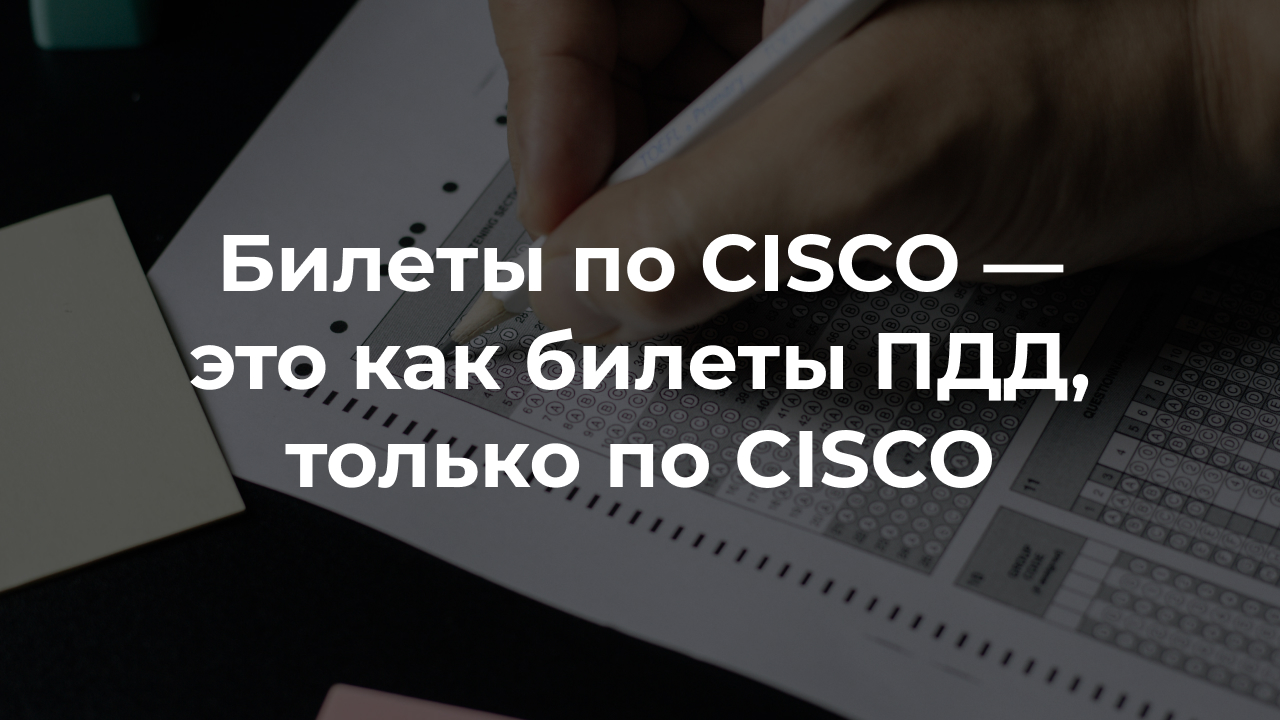
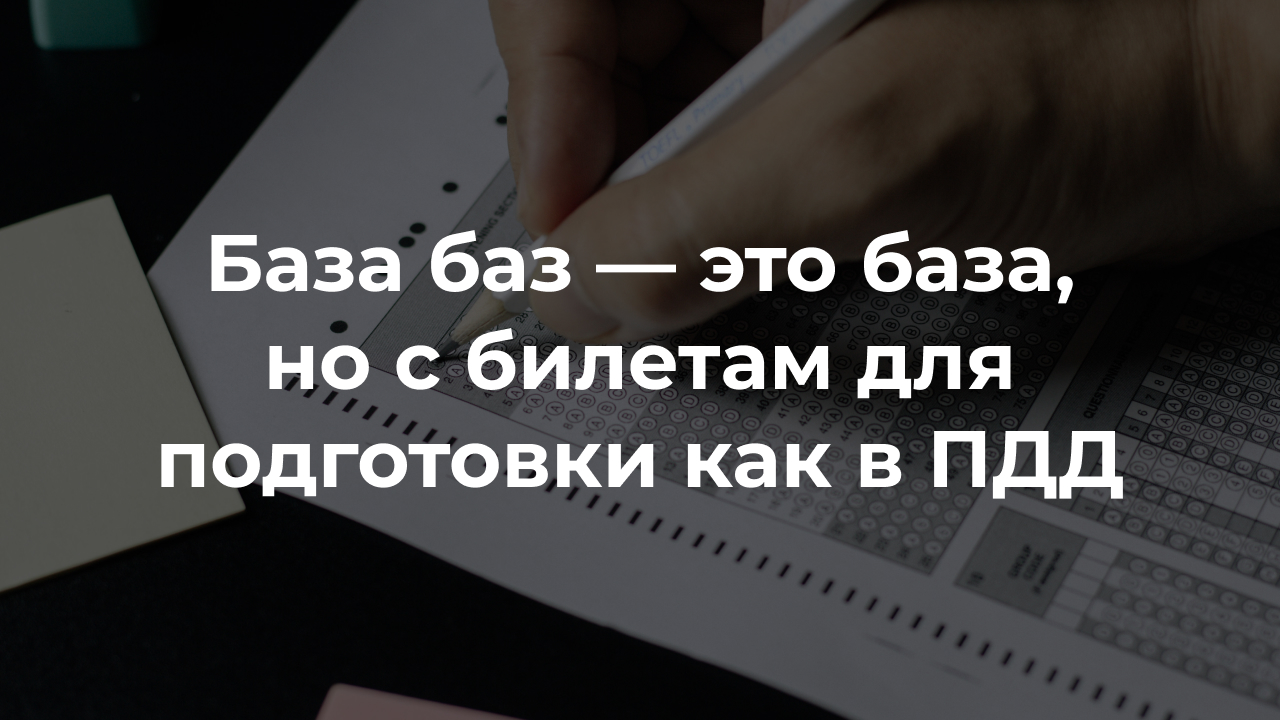
Обновляет мета-информацию

Changed region(s): [[0.125, 0.4583, 0.875, 0.7028], [0.1562, 0.3056, 0.8438, 0.4278]]

diff --git a/app/Http/Controllers/MarathonController.php b/app/Http/Controllers/MarathonController.php
@@ -11,17 +11,17 @@ use Illuminate\Http\Request;
 
 class MarathonController extends Controller
 {
-    public function index(Request $request)
-    {
-        $marathons = Marathon::query()
-            ->withCount(['tasks', 'success_tasks', 'error_tasks'])
-            ->where('token_uuid', $request->cookie('guest'))
-            ->get();
-
-//        dd($marathons->toArray());
-
-        return view('marathons.index', compact(['marathons']));
-    }
+//    public function index(Request $request)
+//    {
+//        $marathons = Marathon::query()
+//            ->withCount(['tasks', 'success_tasks', 'error_tasks'])
+//            ->where('token_uuid', $request->cookie('guest'))
+//            ->get();
+//
+////        dd($marathons->toArray());
+//
+//        return view('marathons.index', compact(['marathons']));
+//    }
 
     public function create(Request $request)
     {
@@ -37,46 +37,46 @@ class MarathonController extends Controller
         return view('marathons.create', compact(['tasks_count', 'token']));
     }
 
-    public function store(Request $request)
-    {
-        $marathon = Marathon::query()->create([
-            'token_uuid' => $request->cookie('guest'),
-        ]);
-
-        $tasks = Task::query()
-            ->whereNull('task_id')
-            ->get();
-
-        if ($request->boolean('shuffle')) {
-            $tasks = $tasks->shuffle();
-        }
-
-        foreach ($tasks as $task) {
-            $newTask = $task->replicate()->fill([
-                'marathon_id' => $marathon->id,
-                'task_id' => $task->id,
-            ]);
-
-            $newTask->save();
-
-            $options = Option::query()
-                ->where('task_id', $task->id)
-                ->get();
-
-            if ($request->boolean('shuffle')) {
-                $options = $options->shuffle();
-            }
-
-            foreach ($options as $option) {
-                $option->replicate()->fill([
-                    'is_chosen' => null,
-                    'task_id' => $newTask->id,
-                ])->save();
-            }
-        }
-
-        return to_route('marathons.show', $marathon->uuid);
-    }
+//    public function store(Request $request)
+//    {
+//        $marathon = Marathon::query()->create([
+//            'token_uuid' => $request->cookie('guest'),
+//        ]);
+//
+//        $tasks = Task::query()
+//            ->whereNull('task_id')
+//            ->get();
+//
+//        if ($request->boolean('shuffle')) {
+//            $tasks = $tasks->shuffle();
+//        }
+//
+//        foreach ($tasks as $task) {
+//            $newTask = $task->replicate()->fill([
+//                'marathon_id' => $marathon->id,
+//                'task_id' => $task->id,
+//            ]);
+//
+//            $newTask->save();
+//
+//            $options = Option::query()
+//                ->where('task_id', $task->id)
+//                ->get();
+//
+//            if ($request->boolean('shuffle')) {
+//                $options = $options->shuffle();
+//            }
+//
+//            foreach ($options as $option) {
+//                $option->replicate()->fill([
+//                    'is_chosen' => null,
+//                    'task_id' => $newTask->id,
+//                ])->save();
+//            }
+//        }
+//
+//        return to_route('marathons.show', $marathon->uuid);
+//    }
 
 //    public function show(Marathon $marathon)
 //    {

diff --git a/resources/views/index.blade.php b/resources/views/index.blade.php
@@ -3,14 +3,14 @@
 @section('title', 'База баз')
 
 @section('head')
-    <meta name="description" content="Это сайт, позволяющий выучить билеты, которые будут на экзамене по CISCO">
-    <meta property="og:title" content="Билеты по CISCO">
+    <meta name="description" content="Это сайт ― база баз, которая позволяет выучить билеты, которые будут на экзамене по тому или иному предмету">
+    <meta property="og:title" content="База баз">
     <meta property="og:type" content="website">
     <meta property="og:url" content="{{ config('app.url') }}">
     <meta property="og:image" content="{{ Vite::asset('resources/images/Promo.jpg') }}">
-    <meta property="og:description" content="Это сайт, позволяющий выучить билеты, которые будут на экзамене по CISCO">
+    <meta property="og:description" content="Это сайт ― база баз, которая позволяет выучить билеты, которые будут на экзамене по тому или иному предмету">
     <meta property="og:locale" content="ru_RU">
-    <meta property="og:site_name" content="Билеты по CISCO">
+    <meta property="og:site_name" content="База баз">
 @endsection
 
 @section('content')

diff --git a/routes/web.php b/routes/web.php
@@ -30,13 +30,13 @@ Route::middleware(EnsureHasGuestToken::class)->group(function () {
 Route::middleware(EnsureCourseIsChosen::class)->group(function () {
     Route::get('/', [IndexController::class, 'index'])->name('index');
 
-    Route::get('/marathons', [MarathonController::class, 'index'])->name('marathons.index');
+//    Route::get('/marathons', [MarathonController::class, 'index'])->name('marathons.index');
     Route::get('/marathons/create', [MarathonController::class, 'create'])->name('marathons.create');
-    Route::post('/marathons', [MarathonController::class, 'store'])->name('marathons.store');
+//    Route::post('/marathons', [MarathonController::class, 'store'])->name('marathons.store');
 //    Route::get('/marathons/{marathon:uuid}', [MarathonController::class, 'show'])->name('marathons.show');
     Route::get('/marathons/{test:uuid}', [MarathonController::class, 'show'])->name('marathons.show');
 
-    Route::post('/exams', [ExamController::class, 'store'])->name('exams.store');
+//    Route::post('/exams', [ExamController::class, 'store'])->name('exams.store');
     Route::get('/exams/{test:uuid}', [ExamController::class, 'show'])->name('exams.show');
 
     Route::get('/api/tests/{test:uuid}/exercises', [ExerciseController::class, 'index']);

diff --git a/resources/views/courses/create.blade.php b/resources/views/courses/create.blade.php
@@ -2,6 +2,17 @@
 
 @section('title', 'Выберите курс')
 
+@section('head')
+    <meta name="description" content="Это сайт ― база баз, которая позволяет выучить билеты, которые будут на экзамене по тому или иному предмету">
+    <meta property="og:title" content="База баз">
+    <meta property="og:type" content="website">
+    <meta property="og:url" content="{{ config('app.url') }}">
+    <meta property="og:image" content="{{ Vite::asset('resources/images/Promo.jpg') }}">
+    <meta property="og:description" content="Это сайт ― база баз, которая позволяет выучить билеты, которые будут на экзамене по тому или иному предмету">
+    <meta property="og:locale" content="ru_RU">
+    <meta property="og:site_name" content="База баз">
+@endsection
+
 @section('content')
     <div class="flex flex-col gap-4">
         <div class="flex justify-center">

diff --git a/app/Http/Controllers/BaseController.php b/app/Http/Controllers/BaseController.php
@@ -3,16 +3,20 @@
 namespace App\Http\Controllers;
 
 use App\Models\Task;
-use Illuminate\Database\Eloquent\Relations\HasMany;
+use App\Models\Token;
 use Illuminate\Http\Request;
 
 class BaseController extends Controller
 {
-    public function index()
+    public function index(Request $request)
     {
-        $tasks = Task::with(['options' => fn($query) => $query->where('is_answer', true)])
+        $token = Token::query()->firstWhere('uuid', $request->cookie('guest'));
+
+        $tasks = Task::with(['options' => function ($query) {
+            $query->select('id', 'name', 'task_id')->where('is_answer', true);
+        }])
             ->select(['id', 'name'])
-//            ->whereNull('task_id')
+            ->where('course_id', $token->course_id)
             ->get();
 
         return view('base.index', compact(['tasks']));

diff --git a/app/Models/Test.php b/app/Models/Test.php
@@ -4,6 +4,7 @@ namespace App\Models;
 
 use App\Enums\TestType;
 use App\Traits\HasUuids;
+use Illuminate\Database\Eloquent\Casts\Attribute;
 use Illuminate\Database\Eloquent\Model;
 use Illuminate\Database\Eloquent\Relations\HasMany;
 
@@ -35,5 +36,15 @@ class Test extends Model
     public function error_exercises(): HasMany
     {
         return $this->exercises()->where('is_success', false);
+    }
+
+    protected function testUrl(): Attribute
+    {
+        return new Attribute(
+            get: fn() => match ($this->type) {
+                TestType::Marathon => route('marathons.show', $this->uuid),
+                default => route('exams.show', $this->uuid),
+            },
+        );
     }
 }

diff --git a/resources/views/tests/index.blade.php b/resources/views/tests/index.blade.php
@@ -33,7 +33,7 @@
 
             @foreach($tests as $test)
                 <li class="text-gray-200 text-xs">
-                    <a class="grid grid-cols-[1fr_40px_48px] p-2 gap-y-2 hover:bg-slate-800" href="{{ route('exams.show', $test->uuid) }}">
+                    <a class="grid grid-cols-[1fr_40px_48px] p-2 gap-y-2 hover:bg-slate-800" href="{{ $test->test_url }}">
                         <span>{{ $test->type->label() }} {{ $test->created_at->format('d.m.Y') }}</span>
                         <span class="flex gap-0.5 justify-end">
                             <span class="text-green-500">{{ $test->success_exercises_count }}</span>

diff --git a/README.md b/README.md
@@ -2,12 +2,19 @@
 
 # Билеты по CISCO
 
-Это сайт, позволяющий выучить билеты, которые будут на экзамене по CISCO
+Это сайт, позволяющий выучить билеты, которые будут на экзамене по тому или иному предмету
 
-[Ссылка на сайт](https://cisco.deniszagvozdin.ru/)
+[Ссылка на сайт](https://bases.deniszagvozdin.ru/)
+
+## До того как
+
+Всё начиналось с подготовки к экзамену по CISCO
+
+[Бывший сайт по CISCO](https://cisco.deniszagvozdin.ru/)
 
 ## Стек технологий
 
 - PHP 8.1
 - Laravel 10
 - VueJS
+- MySQL
